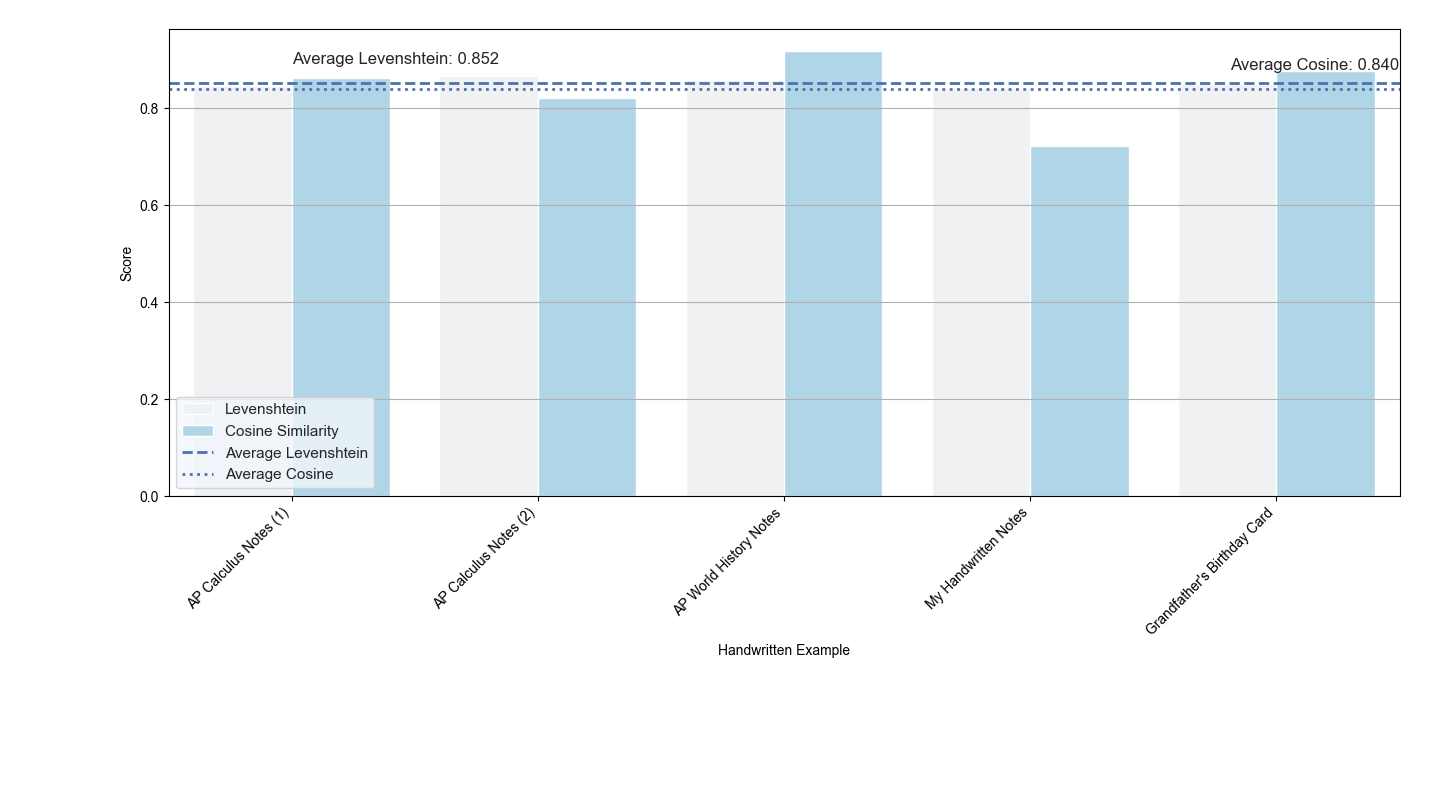
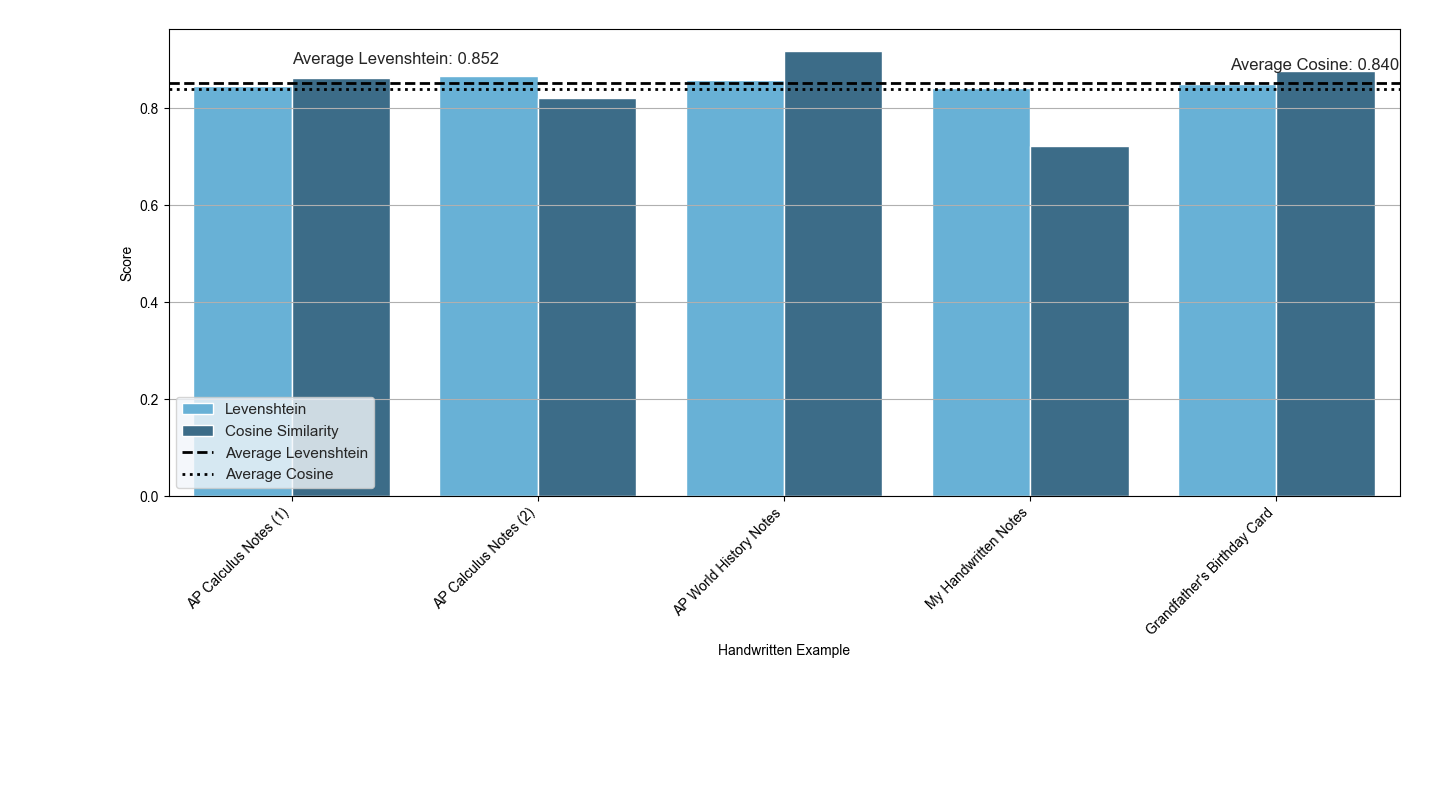
Changing Graph Color Scheme

diff --git a/Test.py b/Test.py
@@ -285,7 +285,7 @@ sns.set_theme(
         "figure.facecolor": "#F2F6FA"}
 )
 
-palette = sns.light_palette("#A7D8F0", n_colors=2)
+palette = palette = ["#56B7E8", "#2F6F95"] 
 
 sns.barplot(
     data=df,
@@ -295,8 +295,8 @@ sns.barplot(
     palette=palette
 )
 
-plt.axhline(avg_lev, linestyle="--", linewidth=2, label="Average Levenshtein")
-plt.axhline(avg_cos, linestyle=":", linewidth=2, label="Average Cosine")
+plt.axhline(avg_lev, linestyle="--", linewidth=2, label="Average Levenshtein", color = "black")
+plt.axhline(avg_cos, linestyle=":", linewidth=2, label="Average Cosine", color = "black")
 
 # Add text slightly above each line
 plt.text(
